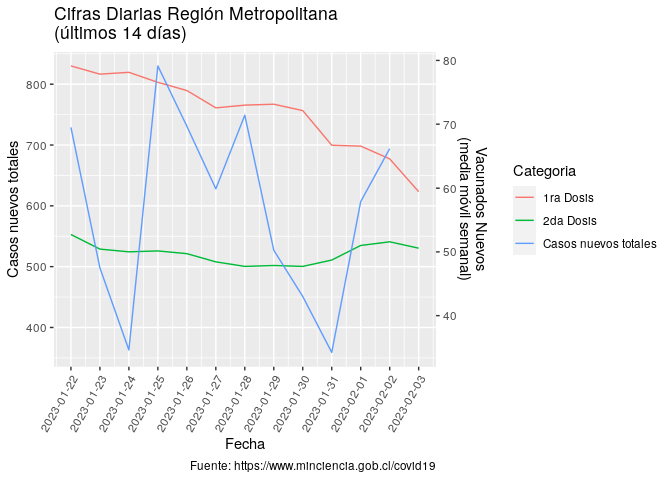
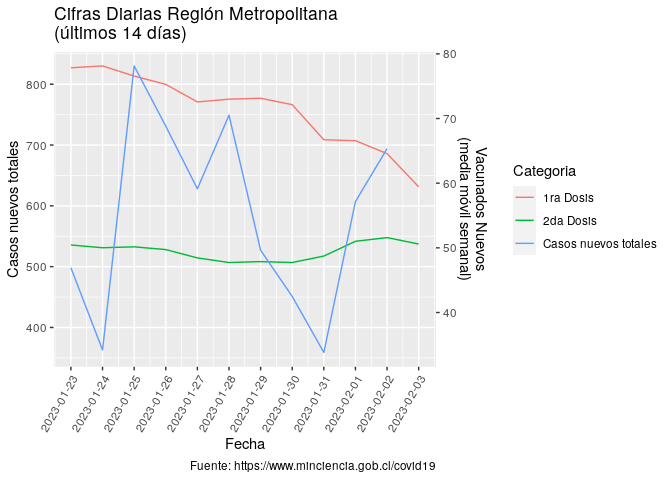
Re-build Rmarkdown files

diff --git a/README.md b/README.md
@@ -3,7 +3,7 @@
 
 Ejemplo de uso de total\_casos de COVID recopilados por el Ministerio de
 Ciencia de Chile <https://www.minciencia.gob.cl/covid19>. Última
-actualización: 2023-02-04
+actualización: 2023-02-05
 
 ## Visualización desde el comienzo de la pandemia
 
